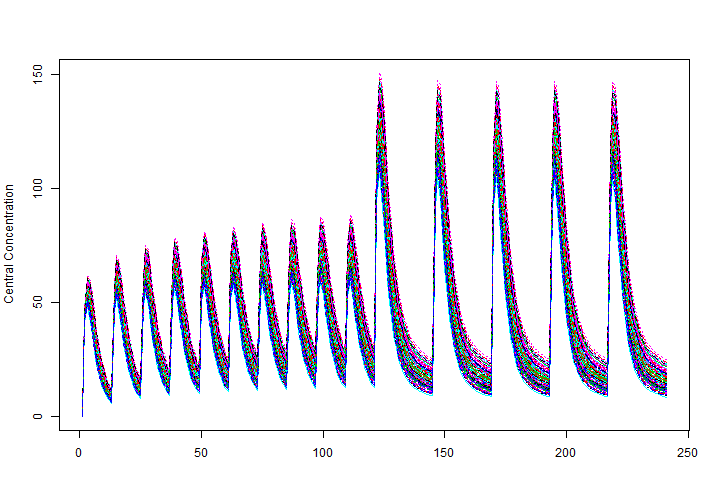
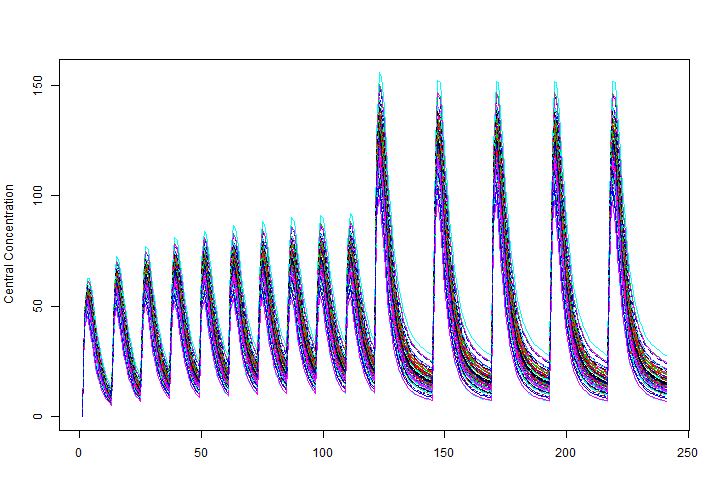
Fix finalized LLIK caluclation and expand tests

diff --git a/src/focei.cpp b/src/focei.cpp
@@ -1,7 +1,7 @@
 // [[Rcpp::depends(RcppArmadillo)]]
 #include <RcppArmadillo.h>
 #include <R.h>
-#include "RxODE_types.hpp"
+#include "RxODE_types.h"
 
 using namespace Rcpp;
 using namespace R;
@@ -53,7 +53,7 @@ NumericVector RxODE_focei_finalize_llik(SEXP rho){
   vec diag = c.diag();
   vec ldiag = log(diag);
   // I don't understand the log.det.OMGAinv.5 piece, but we can add it in later?
-  NumericVector ret = as<NumericVector>(e["llik2"]);
+  NumericVector ret = -as<NumericVector>(e["llik2"]);
   ret += as<NumericVector>(e["log.det.OMGAinv.5"]);
   ret += -as<NumericVector>(wrap(sum(ldiag)));
   ret.attr("fitted") = as<NumericVector>(e["f"]);

diff --git a/src/call_dvode.c b/src/call_dvode.c
@@ -541,12 +541,14 @@ SEXP RxODE_ode_solver_focei_hessian(SEXP sexp_rho){
   SEXP sexp_f      = findVar(installChar(mkChar("f")),sexp_rho);
   int nobs = length(sexp_f);
   for (k = 0; k < neta; k++){
-    for (l = 0; l < neta; l++){
+    for (l = 0; l <= k; l++){
       H[k*neta+l]= - omegaInv[k*neta+l];
       for (i =0; i < nobs; i++){
 	H[k*neta+l] += -0.5*(REAL(VECTOR_ELT(sexp_a, l))[i] * B[i] *REAL(VECTOR_ELT(sexp_a, k))[i] +
 			     ((do_nonmem ? 1 : -1))*(REAL(VECTOR_ELT(sexp_c, l))[i] *REAL(VECTOR_ELT(sexp_c, k))[i]));
       }
+      // Fill out the mirror compenent.
+      H[l*neta+k]= H[k*neta+l];
     }
   }
   UNPROTECT(pro);

diff --git a/src/RcppExports.cpp b/src/RcppExports.cpp
@@ -1,7 +1,8 @@
 // Generated by using Rcpp::compileAttributes() -> do not edit by hand
 // Generator token: 10BE3573-1514-4C36-9D1C-5A225CD40393
 
-#include "RxODE_types.hpp"
+#include "RxODE_types.h"
+#include "../inst/include/RxODE_types.h"
 #include <RcppArmadillo.h>
 #include <Rcpp.h>
 

diff --git a/inst/include/RxODE_types.h b/inst/include/RxODE_types.h
@@ -1,0 +1,6 @@
+#ifndef __RxODE_types__
+#define __RxODE_types__
+#include <RcppArmadillo.h>
+typedef Rcpp::NumericVector (*rxFn2)(SEXP,SEXP);
+#endif // __RxODE_types__
+

diff --git a/README.md b/README.md
@@ -347,12 +347,12 @@ head(theta.all)
 
 ```
 ##         KA       CL   V2    Q  V3 Kin Kout EC50
-## [1,] 0.294 20.30303 40.2 10.5 297   1    1  200
-## [2,] 0.294 23.43885 40.2 10.5 297   1    1  200
-## [3,] 0.294 22.28216 40.2 10.5 297   1    1  200
-## [4,] 0.294 20.36858 40.2 10.5 297   1    1  200
-## [5,] 0.294 14.41364 40.2 10.5 297   1    1  200
-## [6,] 0.294 14.34444 40.2 10.5 297   1    1  200
+## [1,] 0.294 18.29589 40.2 10.5 297   1    1  200
+## [2,] 0.294 18.54945 40.2 10.5 297   1    1  200
+## [3,] 0.294 17.10564 40.2 10.5 297   1    1  200
+## [4,] 0.294 18.15896 40.2 10.5 297   1    1  200
+## [5,] 0.294 17.27729 40.2 10.5 297   1    1  200
+## [6,] 0.294 19.44007 40.2 10.5 297   1    1  200
 ```
 
 Each subproblem can be simulated by using an explicit loop (or the `apply()`
